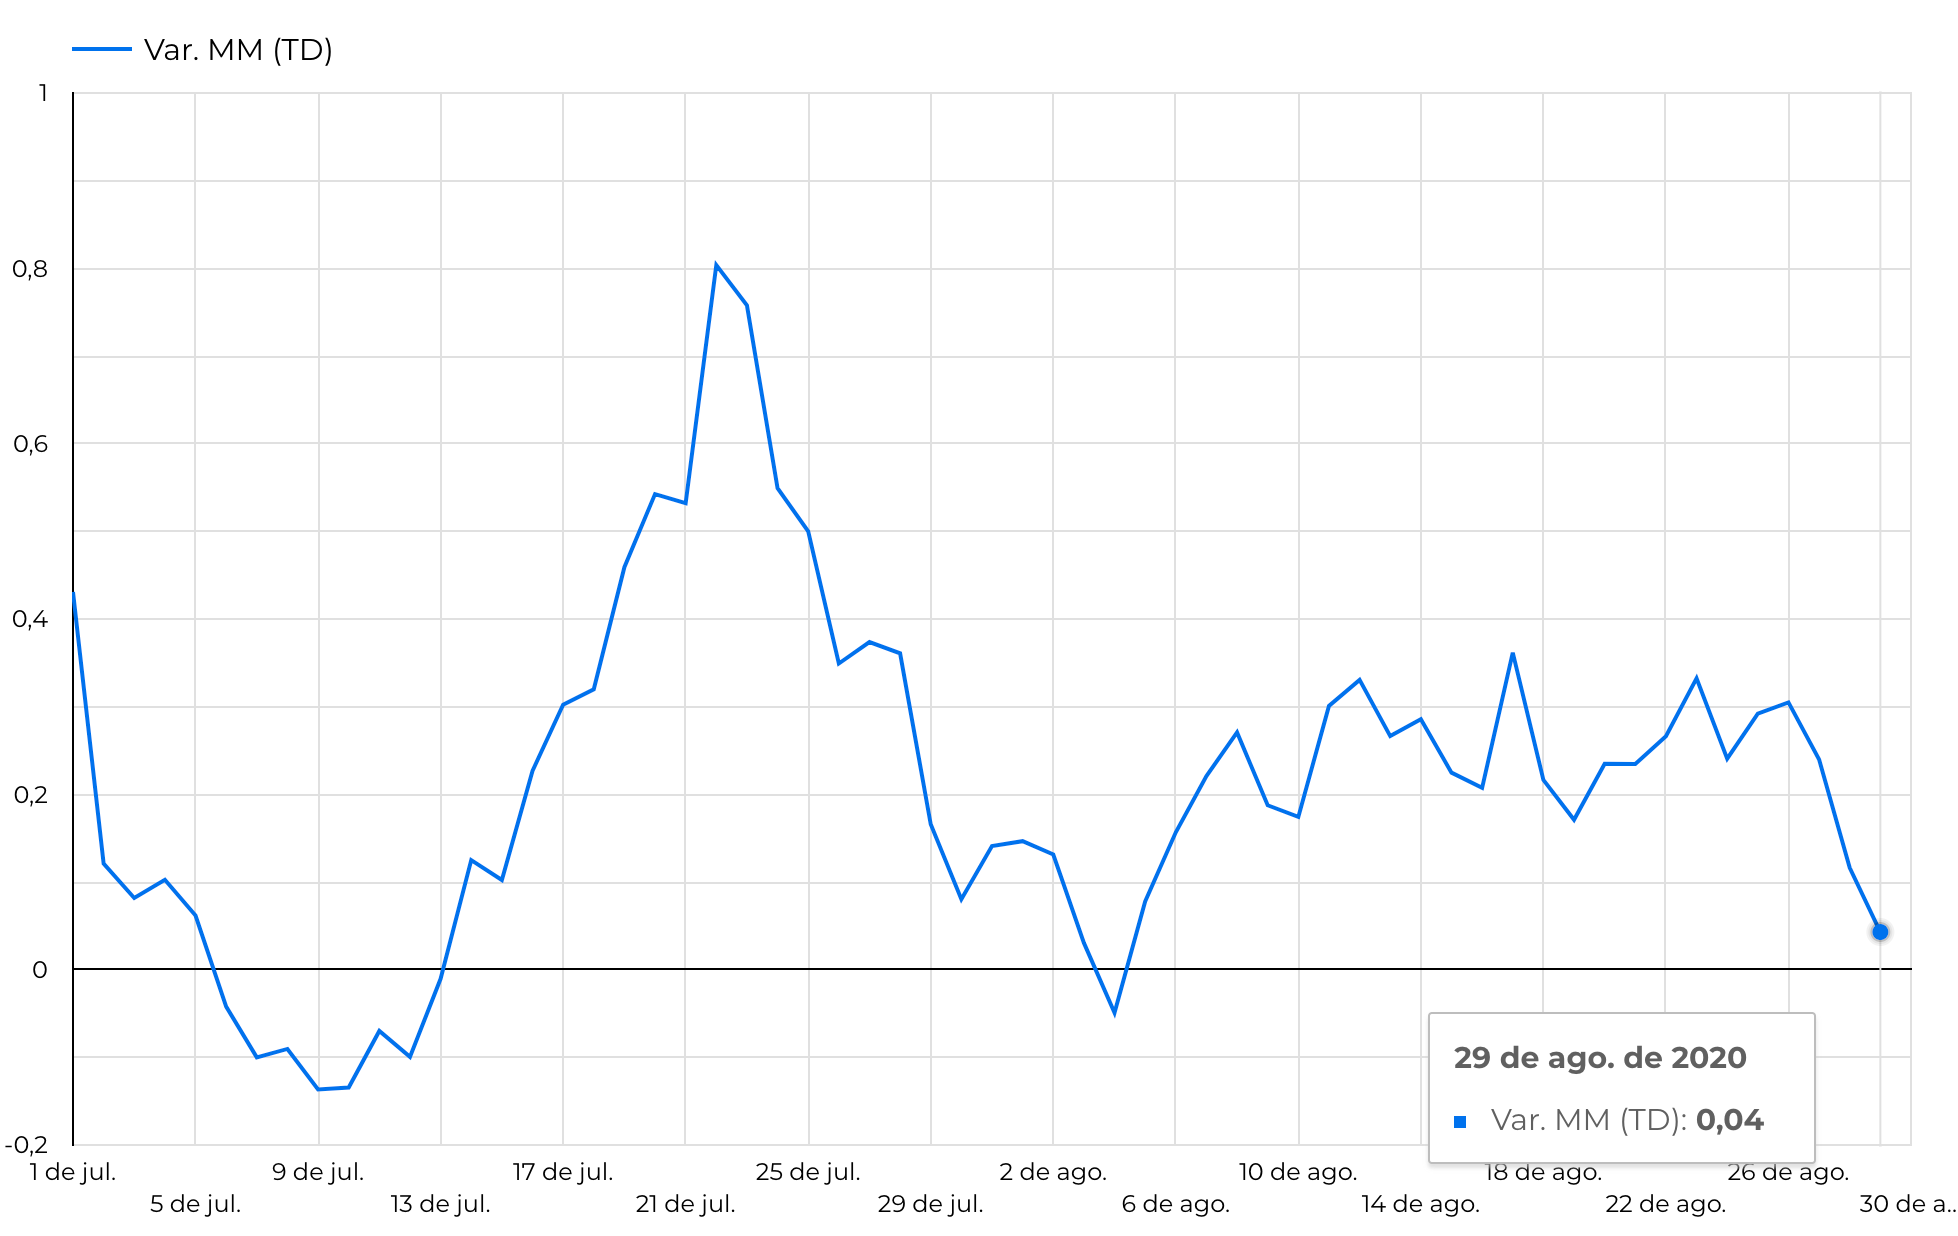
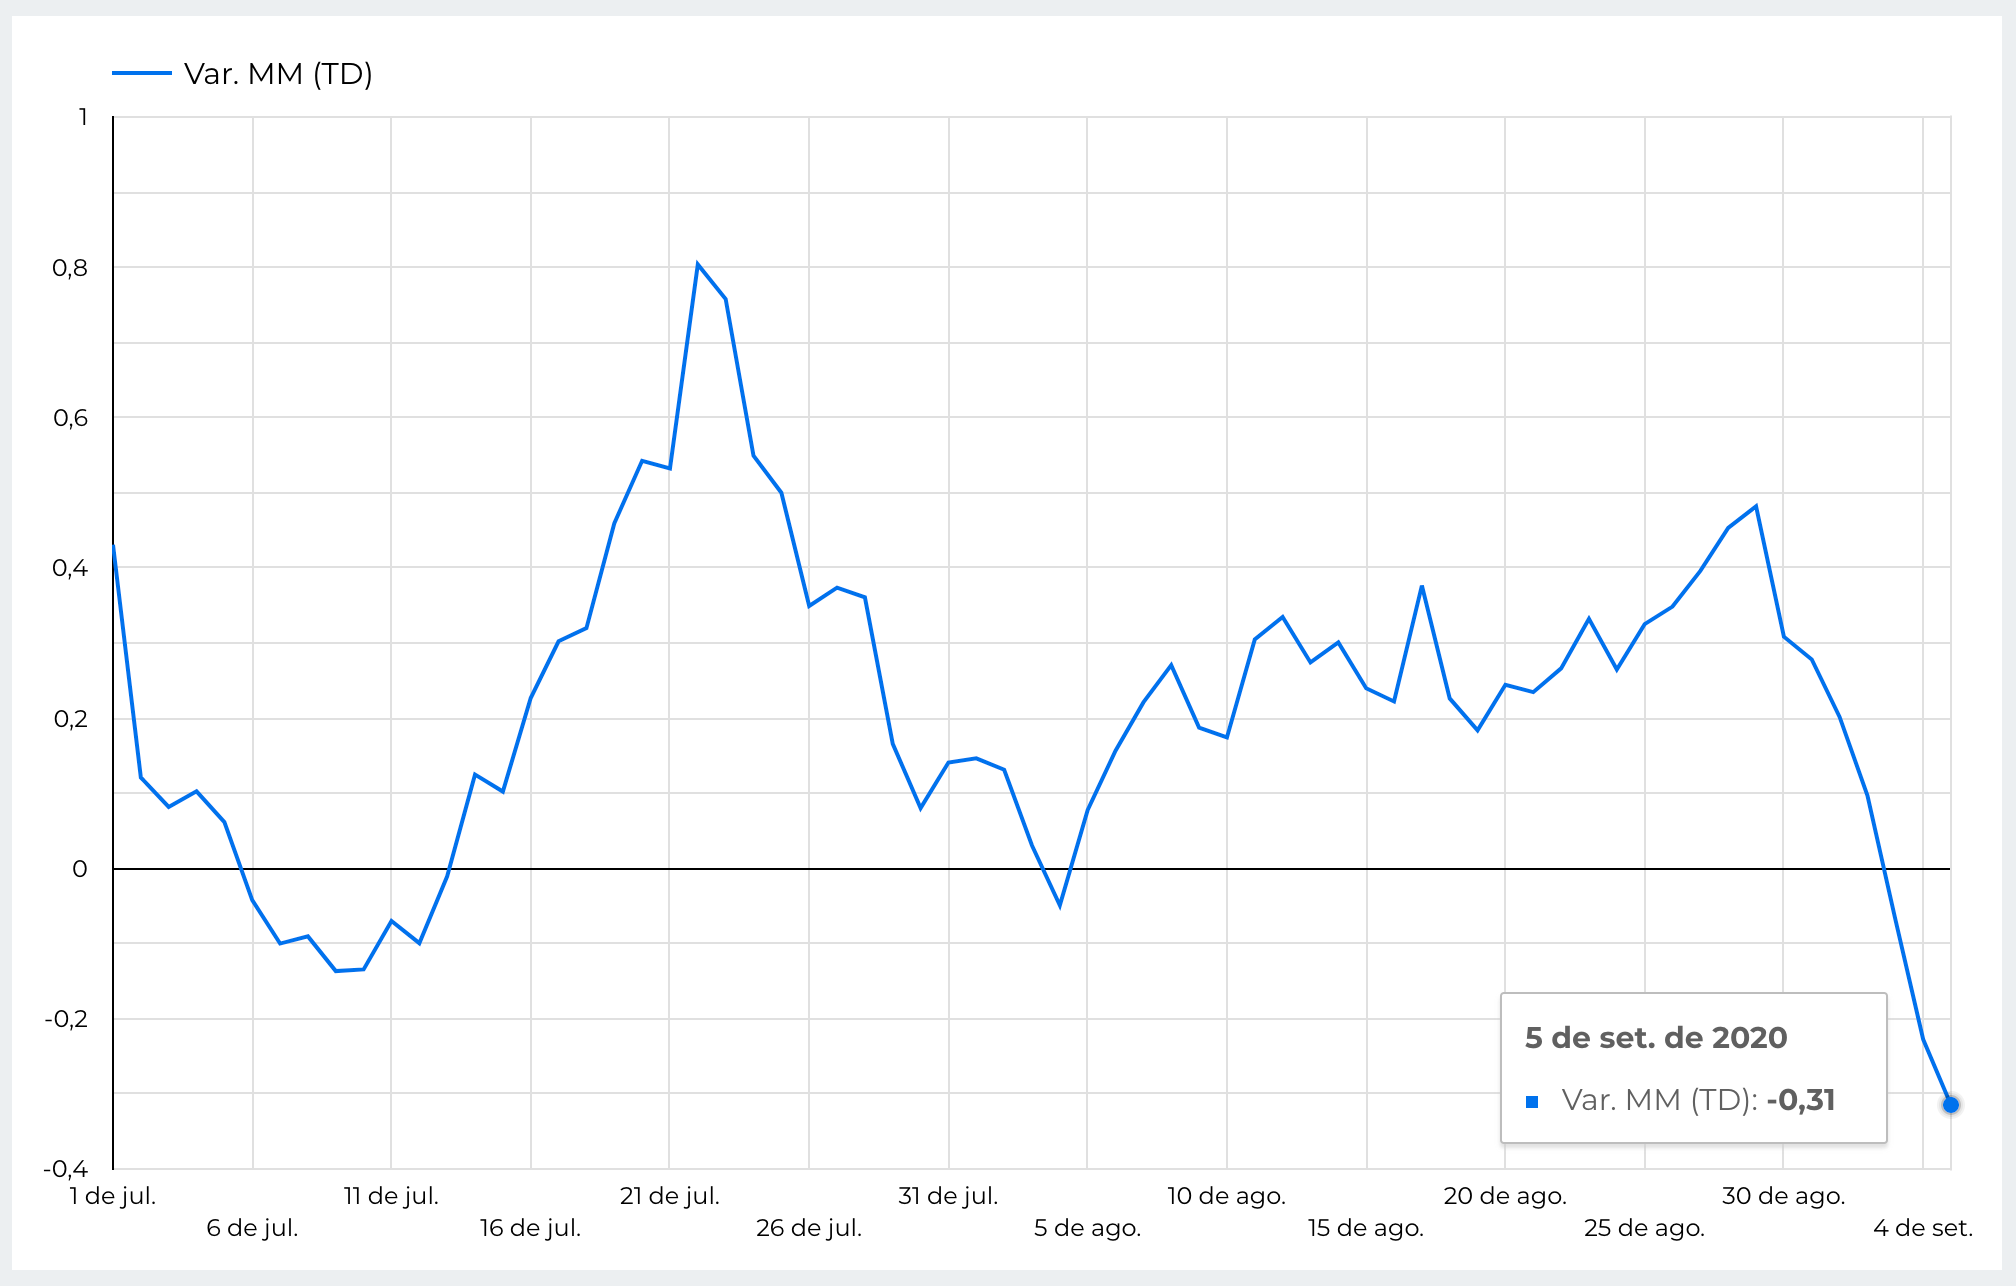
Atualizacao

diff --git a/index.html b/index.html
@@ -147,8 +147,8 @@
 
         <p class="text-justify mt-3">
             <ul>
-            <li>No dia de hoje (29/08/2020), acumulamos 3298 casos notificados.</li>
-            <li>Projeção para dia 03 de setembro é de 3553 podendo chegar até 3845 casos notificados, como indicado pela faixa cinza.</li>
+            <li>No dia de hoje (05/09/2020), acumulamos 3734 casos notificados.</li>
+            <li>Projeção para dia 10 de setembro é de 3951 podendo chegar até 4256 casos notificados, como indicado pela faixa cinza.</li>
             <li>Pontos pretos: número de casos confirmados a cada dia.</li>
             <li>Pontos laranjas: a previsão para os próximos 5 dias.</li>
             </ul>
@@ -176,7 +176,7 @@
         </div>
 
         <p class="text-justify mt-3">
-        Todos os dados foram obtidos da própria Secretária Municipal de Saúde de Uberaba até o dia 29 de agosto de 2020.
+        Todos os dados foram obtidos da própria Secretária Municipal de Saúde de Uberaba até o dia 05 de setembro de 2020.
         </p>
 
 <!--        <a href="https://datastudio.google.com/reporting/1CX1pHjDrbb7X1gEIeVY1sxQp8PziWgpN/page/g6OUB?s=hWFHXQaeMZY" target="_blank">
@@ -193,7 +193,7 @@
         <p class="text-justify mt-3"> Figura 2: Indicadores dos casos de Covid-19 em Uberaba. Clique na imagem para ver o gráfico interativo </p>
 
         <p class="text-justify mt-3">
-        Os gráficos da Figura 2 apresentam um panorama geral da evolução da covid-19 na cidade de Uberaba. No dia 29/08/2020 a cidade apresenta 3298 casos notificados confirmados dos quais 81% são considerados recuperados.
+        Os gráficos da Figura 2 apresentam um panorama geral da evolução da covid-19 na cidade de Uberaba. No dia 05/09/2020 a cidade apresenta 3734 casos notificados confirmados dos quais 82% são considerados recuperados.
         </p>
 
         <div class="media-body">
@@ -208,7 +208,7 @@
         </p>
 
         <p class="text-justify mt-3">
-        A Figura 3, apresenta a média móvel dos casos confirmados considerando um intervalo de sete dias. A média móvel dos casos confirmados em Uberaba no dia 29/08 é de 3173.
+        A Figura 3, apresenta a média móvel dos casos confirmados considerando um intervalo de sete dias. A média móvel dos casos confirmados em Uberaba no dia 05/09 é de 3631.
         </p>
 
         <a href="https://datastudio.google.com/reporting/1eNQdQv-rpu3yne8bvqD71-j8gS44fYts/page/sLUUB?s=sfL5MYwUyi4" target="_blank">
@@ -222,7 +222,7 @@
         </p>
 
         <p class="text-justify mt-3">
-       A Figura 4 apresenta a curva de casos ativos ao longo do tempo junto com a média móvel considerando intervalos de sete dias. A média móvel de casos ativos da covid-19 no dia 29/08 é de 545.
+       A Figura 4 apresenta a curva de casos ativos ao longo do tempo junto com a média móvel considerando intervalos de sete dias. A média móvel de casos ativos da covid-19 no dia 05/09 é de 562.
         </p>
 
         <a href="https://datastudio.google.com/reporting/1eNQdQv-rpu3yne8bvqD71-j8gS44fYts/page/sLUUB?s=sfL5MYwUyi4" target="_blank">
@@ -272,7 +272,7 @@
         <p class="text-justify mt-3"> Figura 6: Novos casos diários confirmados e média móvel </p>
 
         <p class="text-justify mt-3">
-        A Figura 7  apresenta a evolução da variação da média móvel dos novos casos diários a partir de 01 de agosto de 2020. No dia 29/08 a variação é de 4%, nesse momento, indica situação de estabilidade, de acordo com os parâmetros usados pelos especialistas.
+        A Figura 7  apresenta a evolução da variação da média móvel dos novos casos diários. No dia 05/09 a variação é de -31%, nesse momento, indica situação de queda, de acordo com os parâmetros usados pelos especialistas.
         </p>
 
 
@@ -289,15 +289,15 @@
         Duas taxas dão importantes quando precisa entender o número de óbitos de uma doença,  a taxa de letalidade e a taxa de mortalidade. A letalidade é uma taxa que compara o número de óbitos com a quantidade de pessoas infectadas pela doença. A mortalidade é um índice obtido por uma relação dos óbitos por uma causa específica em um determinado período de tempo para cada 100.000 habitantes da área analisada.
 
         <p class="text-justify mt-3">
-        <li> A <b> taxa de letalidade </b> é calculada como o número total de óbitos dividido pelo número total de casos confirmados. Hoje, a taxa de letalidade de Uberaba é de 2,72%. Isso significa que a cada 100 pessoas que tem o dignóstico confirmado de covid-19, 2,72 dessas pessoas podem vir a óbito.</li>
+        <li> A <b> taxa de letalidade </b> é calculada como o número total de óbitos dividido pelo número total de casos confirmados. Hoje, a taxa de letalidade de Uberaba é de 2,76%. Isso significa que a cada 100 pessoas que tem o dignóstico confirmado de covid-19, 2,76 dessas pessoas podem vir a óbito.</li>
         </p>
 
         <p class="text-justify mt-3">
-        <li>A <b>taxa de mortalidade </b> é calculada considerando o número de óbitos pelo número total da população de Uberaba vezes 100 mil. No dia 29/08/2020 a taxa de mortalidade é de 26,96/100mil habitantes. Isso significa que a cada 100 mil pessoas de Uberaba, 26,96 delas podem vir a óbito por causa da covid-19.</li>
+        <li>A <b>taxa de mortalidade </b> é calculada considerando o número de óbitos pelo número total da população de Uberaba vezes 100 mil. No dia 05/09/2020 a taxa de mortalidade é de 30,03/100mil habitantes. Isso significa que a cada 100 mil pessoas de Uberaba, 30,03 delas podem vir a óbito por causa da covid-19.</li>
         </p>
 
         <p class="text-justify mt-3">
-        O gráfico da Figura 8 apresenta a evolução do número de óbitos com a média móvel e também a variação dessa média. A variação da média móvel do número de óbitos é de 21%.
+        O gráfico da Figura 8 apresenta a evolução do número de óbitos com a média móvel e também a variação dessa média. A variação da média móvel do número de óbitos é de 30%.
         </p>
 
         <a href="https://datastudio.google.com/reporting/1eNQdQv-rpu3yne8bvqD71-j8gS44fYts/page/sLUUB?s=sfL5MYwUyi4" target="_blank">
@@ -317,17 +317,21 @@
             Uma pessoa infectada está contaminando 1.18 pessoas. (Semana passada esse valor era de 1.27)
         </p>-->
 
-        <!--CARD.TEXT -->
-<!--        <p class="text-justify mt-3">
-          O número Reprodutivo efetivo (Re) é a média de pessoas contaminadas por um infectado. Valores maiores que 1 indicam que o número de novos casos está aumentando. Valores próximos de um indicam um número constante de casos a cada dia. Apenas valores de Re abaixo de um por muitos dias indicam tendência de redução no número de casos
-        </p>
-        <img src="./web/municipios/MG/Uberaba/contagio.png" class="img-fluid" style="max-height:600px;" alt="Gŕafico mostrando o número de casos acumulados na cidade de Uberaba.">
-        <p class="text-center mt-3">
-            Figura 6: Ritmo de Contágio. (Fonte: www.farolcovid.coronacidades.org) - Última Atualização 11/07/2020
-        </p>
-
-
         <div class="media-body">
+            <h3 class="card-title">Taxa de Reprodutibilidade</h3>
+        </div>
+
+        <!--CARD.TEXT -->
+        <p class="text-justify mt-3">
+          O número Reprodutivo efetivo (Rt) é a média de pessoas contaminadas por um infectado. Valores maiores que 1 indicam que o número de novos casos está aumentando. Valores próximos de um indicam um número constante de casos a cada dia. Apenas valores de Rt abaixo de um por muitos dias indicam tendência de redução no número de casos
+        </p>
+        <img src="./web/municipios/MG/Uberaba/taxaRt.png" class="img-fluid" style="max-height:600px;" alt="Gŕafico mostrando o número de casos acumulados na cidade de Uberaba.">
+        <p class="text-center mt-3">
+            Figura 9: Ritmo de Contágio.
+        </p>
+
+
+        <!--<div class="media-body">
             <h3 class="card-title">Taxa de Isolamento de Uberaba </h3>
         </div>
 
